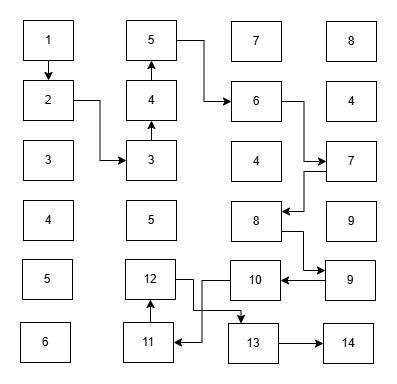
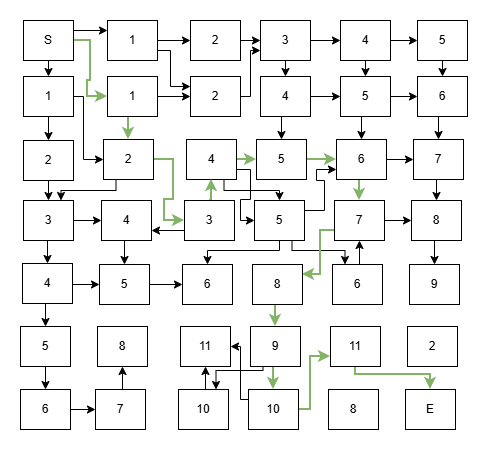
update diagram for next = prev + 1

diff --git a/tests/examples/test_next_equals_prev_plus_1_start_end.py b/tests/examples/test_next_equals_prev_plus_1_start_end.py
@@ -96,11 +96,13 @@ def test_non_ambiguous_matrix():
 def test_many_neighbors_with_incremental_values():
 
     matrix = [
-        ["S",  "1",  "2",  "3",  "4"],
-        ["1",  "1",  "3",  "4",  "5"],
-        ["2",  "2",  "4",  "7",  "7"],
-        ["3",  "3",  "5",  "6",  "7"],
-        ["4",  "4",  "5",  "6",  "E"]
+        ["S",  "1",  "2",   "3",   "4",  "5"],
+        ["1",  "1",  "2",   "4",   "5",  "6"],
+        ["2",  "2",  "4",   "5",   "6",  "7"],
+        ["3",  "4",  "3",   "5",   "7",  "8"],
+        ["4",  "5",  "6",   "8",   "6",  "9"],
+        ["5",  "8",  "11",  "9",   "11", "2"],
+        ["6",  "7",  "10",  "10",  "8",  "E"]
     ]
 
     # def beforeFirstVisitCallback(mt: MatrixTraverser, 

diff --git a/examples/next_equals_prev_plus_1_start_end.py b/examples/next_equals_prev_plus_1_start_end.py
@@ -16,11 +16,13 @@ from src.MatrixTraverser import Matrix, MatrixTraverser, Coordinate, Move, State
 
 
 matrix = [
-    ["S",   "8",   "9",   "9",   "90"],
-    ["1",   "2",   "7",   "8",   "10"],
-    ["10",  "3",   "6",   "9",   "13"],
-    ["12",  "4",   "10",  "6",   "14"],
-    ["5",   "6",   "5",   "16",  "E"]
+        ["S",  "1",  "2",   "3",   "4",  "5"],
+        ["1",  "1",  "2",   "4",   "5",  "6"],
+        ["2",  "2",  "4",   "5",   "6",  "7"],
+        ["3",  "4",  "3",   "5",   "7",  "8"],
+        ["4",  "5",  "6",   "8",   "6",  "9"],
+        ["5",  "8",  "11",  "9",   "11", "2"],
+        ["6",  "7",  "10",  "10",  "8",  "E"]
 ]
 
 state = {}
